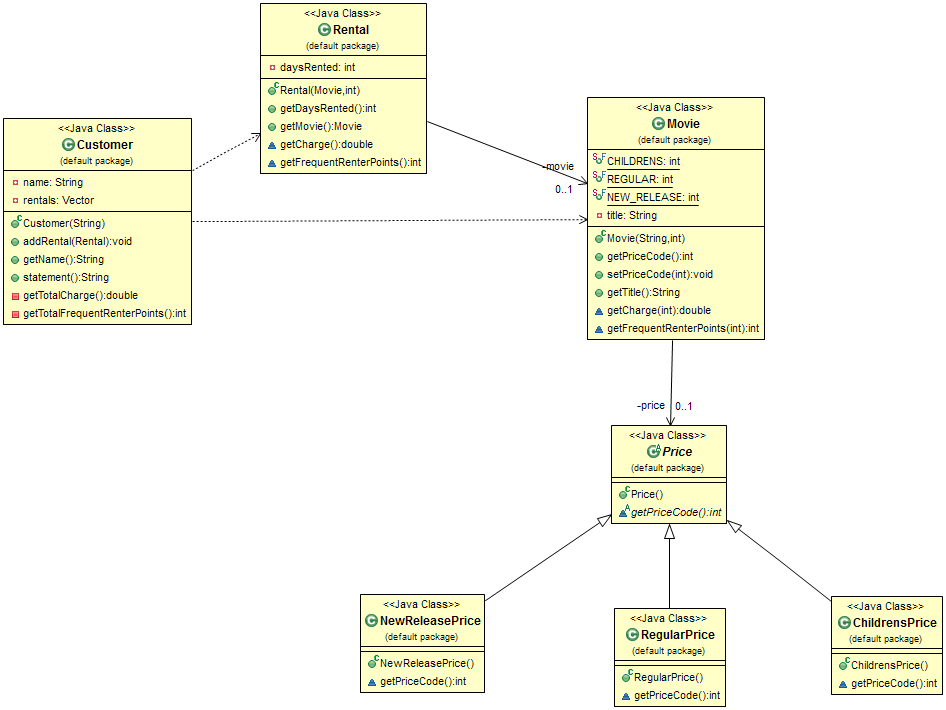
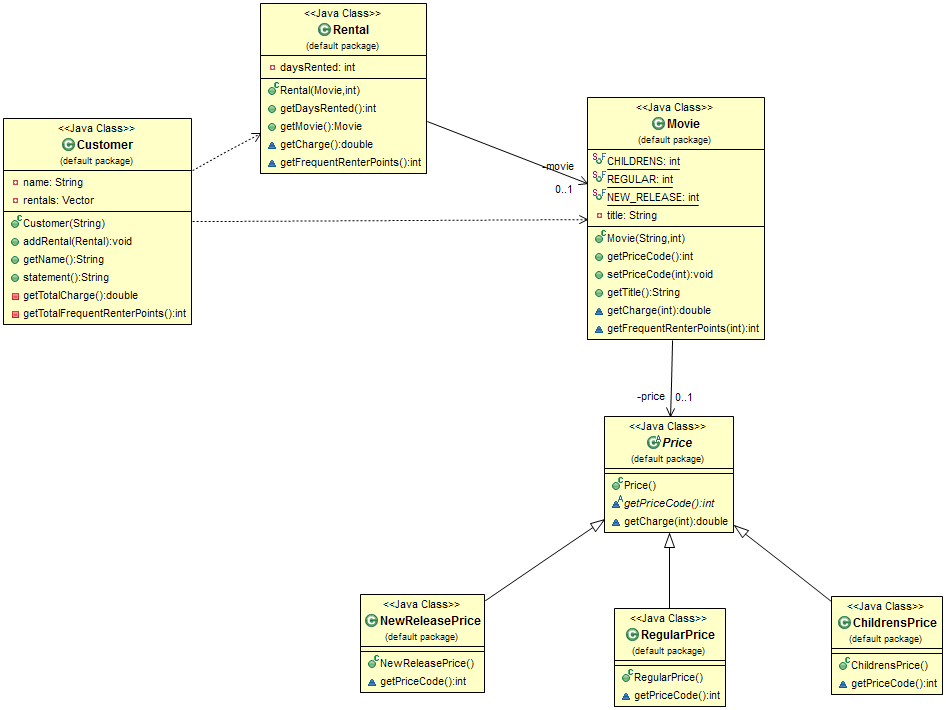
Change: Used "Move Method"(http://refactoring.com/catalog/moveMethod.html) to move getCharge from Movie to Price; Updated Metrics and Class Diagram

Changed region(s): [[0.6131, 0.5577, 0.797, 0.7746]]

diff --git a/src/Movie.java b/src/Movie.java
@@ -35,24 +35,7 @@ public class Movie {
     }
     
 	double getCharge(int daysRented) {
-		double result = 0;
-		//determine amounts for each line
-	    switch (getPriceCode()) {
-	        case Movie.REGULAR:
-	        	result += 2;
-	        	if (daysRented > 2)
-	            	result += (daysRented - 2) * 1.5;
-	        	break;
-	        case Movie.NEW_RELEASE:
-	        	result += daysRented * 3;
-	        	break;
-	        case Movie.CHILDRENS:
-	        	result += 1.5;
-	        	if (daysRented > 3)
-	            	result += (daysRented - 3) * 1.5;
-	        	break;
-	    }
-	    return result;
+		return price.getCharge(daysRented);
 	}
 	
 	int getFrequentRenterPoints(int daysRented) {

diff --git a/src/Price.java b/src/Price.java
@@ -1,4 +1,25 @@
 
 public abstract class Price {
 	abstract int getPriceCode();
+
+	double getCharge(int daysRented) {
+		double result = 0;
+		//determine amounts for each line
+	    switch (getPriceCode()) {
+	        case Movie.REGULAR:
+	        	result += 2;
+	        	if (daysRented > 2)
+	            	result += (daysRented - 2) * 1.5;
+	        	break;
+	        case Movie.NEW_RELEASE:
+	        	result += daysRented * 3;
+	        	break;
+	        case Movie.CHILDRENS:
+	        	result += 1.5;
+	        	if (daysRented > 3)
+	            	result += (daysRented - 3) * 1.5;
+	        	break;
+	    }
+	    return result;
+	}
 }
